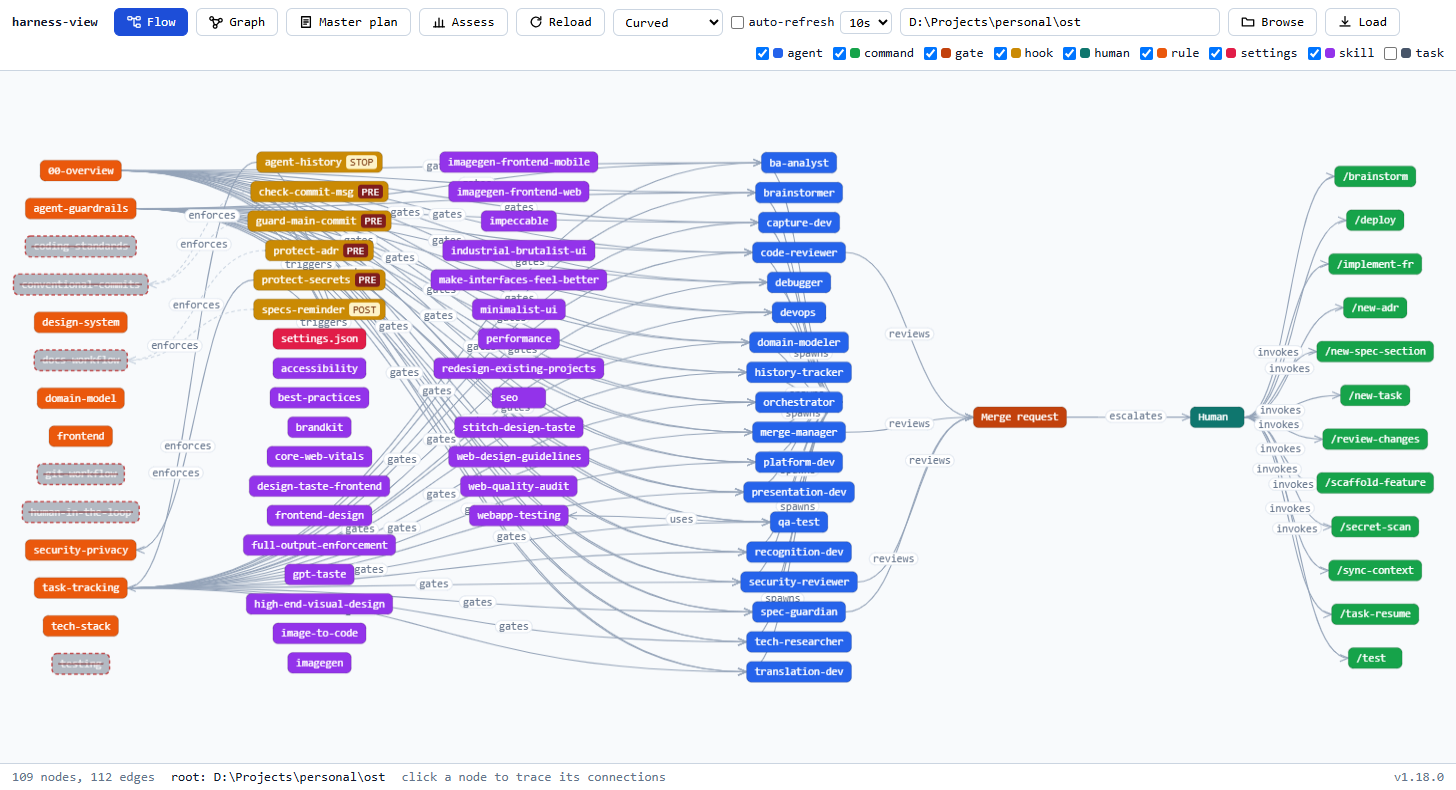
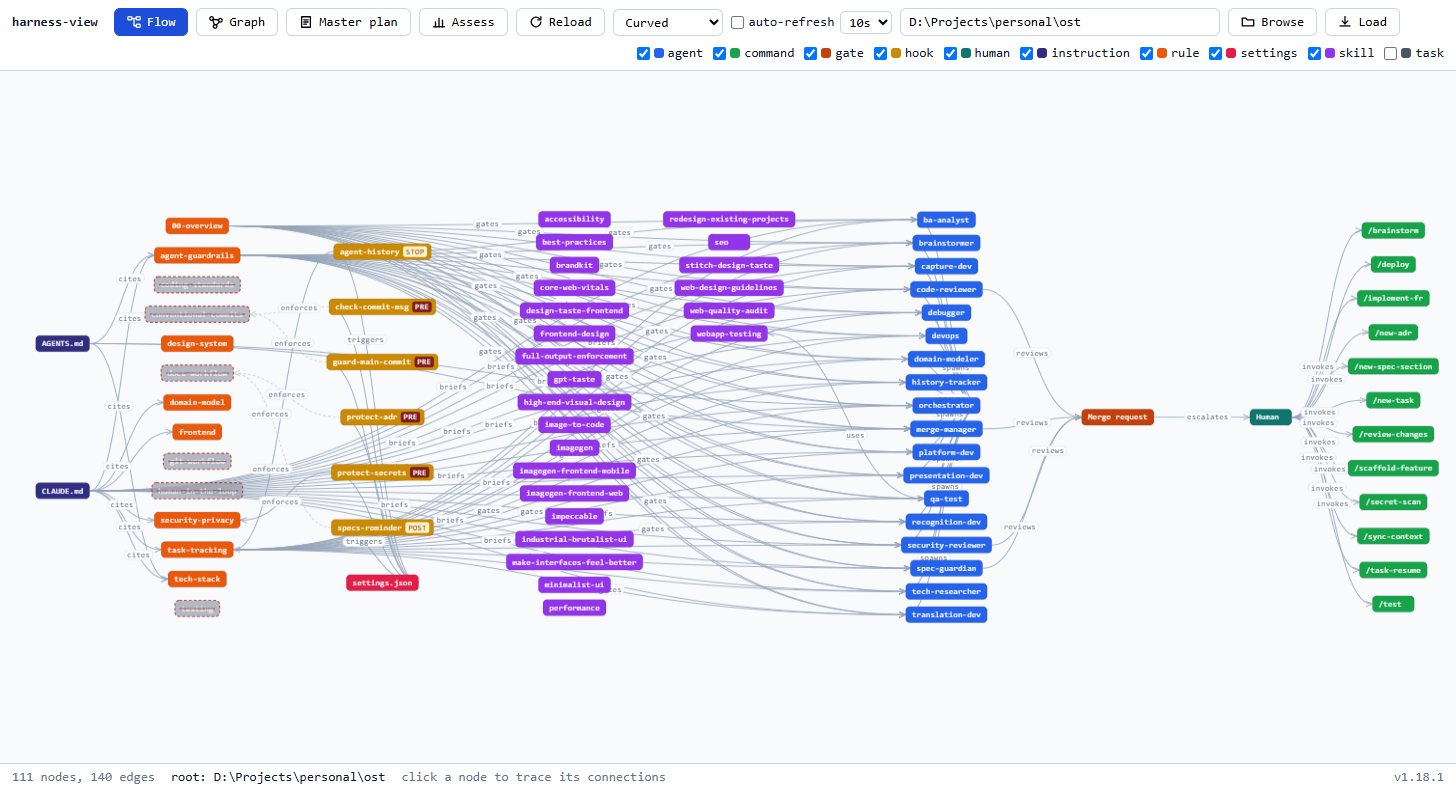
release: v1.18.1 (#31)
Version, four changelogs, regenerated plugin trees, and UI screenshots retaken from the 1.18.1 binary.

diff --git a/tools/harness-view/CHANGELOG.md b/tools/harness-view/CHANGELOG.md
@@ -7,6 +7,45 @@ This tool is versioned and released together with the two skills under one repo 
 [`docs/RELEASING.md`](../../docs/RELEASING.md). Its `Cargo.toml` version is gate-enforced against
 that number, so the binary can never report a version the release does not carry.
 
+## [1.18.1] - 2026-08-21
+
+### Added
+
+- **Instruction files are nodes.** `AGENTS.md`, `CLAUDE.md` and the per-tool equivalents appear in
+  the leftmost column - they are the contract every seat reads, so they sit before the rules - and
+  they are editable in place. New edges show which seats a contract briefs, which rules it cites,
+  and that `CLAUDE.md` imports `AGENTS.md`. Paths were researched rather than assumed, and the one
+  that could not be confirmed against a first-party source is **marked unverified** instead of
+  being claimed.
+- **The routing tiers are visible.** The Direct / Standard / Guarded table is parsed out of
+  whichever file states it and rendered as its own panel, and any seat the table names carries a
+  tier badge. Direct and Standard name nobody, so nobody is badged for them.
+- **A step's table is edited in a grid**, not by hand-aligning pipes. A real routing table is 17
+  rows; it used to arrive as a wall of `|` in a box four lines tall. Rows and columns can be added
+  and removed, and a one-cell edit produces a one-line diff, because each row is written back from
+  its original bytes unless its cells actually changed.
+- **`@` opens a picker over everything taggable** - seats, rules, skills, commands and repository
+  paths - with no word typed, and inserts the citation this repo actually uses for whatever is
+  chosen. The three older triggers each required knowing which *kind* of thing you were citing,
+  which is fine once you know the harness and useless before you do.
+
+### Changed
+
+- Skills have their own Flow column. Sharing the hooks column reads fine with two skills and falls
+  apart with twenty: a column of purple ran through the middle of six yellow hooks and the
+  enforcement layer - the part of the picture that says what can say no - could not be picked out.
+- Dialogs are 760px, 1040px for the roster editor, and **resizable**. Footer buttons carry one of
+  six colours so a destructive action is never one careless click from a confirm.
+- The edge animation runs at 0.22 px per frame instead of 0.7. At the old speed the eye tracked the
+  motion instead of the direction it was pointing.
+
+### Fixed
+
+- A CRLF file made the instruction editor report itself unsaved forever: a textarea normalises to
+  LF, so the buffer never equalled the stored original.
+- Two tests passed only on an older checkout. `.gitattributes` marks `*.md` as text, so a **fresh
+  Windows clone gets CRLF fixtures** and both compared them against LF literals.
+
 ## [1.18.0] - 2026-08-21
 
 ### Added

diff --git a/harness-bootstrap/CHANGELOG.md b/harness-bootstrap/CHANGELOG.md
@@ -6,6 +6,23 @@ Format: [Keep a Changelog](https://keepachangelog.com/en/1.1.0/). Versioning: [S
 This skill is released together with `spec-builder` under one repo version - see
 [`docs/RELEASING.md`](../docs/RELEASING.md).
 
+## [1.18.1] - 2026-08-21
+
+### Fixed
+
+- **Updating to a new skill version no longer invents conflicts.** `.gitattributes` checks this
+  repo's text out native, so a skill cloned on Windows holds CRLF while the same skill in WSL, in
+  CI, or unzipped from a release holds LF. Bootstrap from one and update from the other and every
+  text asset differed by one byte per line: a real 1.17.0 to 1.18.0 upgrade reported 14 conflicts,
+  **seven of them fake** - five `.gitkeep` files, `.claude/.gitignore` and `spawn-allowlist`,
+  identical in every character. A reconciliation queue nobody can read is a reconciliation queue
+  nobody works, and taking a new version is the one moment when reading it matters most. The
+  scaffolder now forgives line endings and nothing else: a file you edited still conflicts, and a
+  binary asset is still compared byte for byte.
+- spec-builder ships **8** optional spec sections, not 9. The README was right and `docs/FLOWS.md`,
+  the presentation outline and the deck in three languages were wrong. The number is now derived
+  from the manifest and checked on every surface that states it, in all three languages.
+
 ## [1.18.0] - 2026-08-21
 
 ### Changed

diff --git a/plugins/codex/spec-builder/skills/spec-builder/SKILL.md b/plugins/codex/spec-builder/skills/spec-builder/SKILL.md
@@ -1,6 +1,6 @@
 ---
 name: spec-builder
-version: 1.18.0
+version: 1.18.1
 description: Build the requirements contract for a project - a selective set of numbered BA spec sections under docs/specs/ with stable IDs (FR/NFR/BR/UC/US/DS/DT), acceptance criteria, and grep-verifiable traceability. The core (overview, glossary, FRs, NFRs, open issues, revision history, index) always; stakeholders, business flows, access control, data model, integrations, UI wireframes, feasibility, and a design-system appendix when selected. Do NOT use it to digest documents into a knowledge base, to build the .claude agent harness (that is harness-bootstrap), or to write code or ADRs. Works from any raw input - an idea, meeting notes, a transcript, a PRD, legacy docs, or a codebase - in the user's language. Use this WHENEVER the user wants requirements written, structured, or standardized - "build specs", "tạo specs", "viết tài liệu phân tích yêu cầu", "要件定義を作成して" - and their equivalents in any language. It never invents a requirement; anything unstated becomes a flagged open issue instead of a guess.
 allowed-tools: Bash(python:*), Bash(python3:*), Read, Write, Edit, Grep, Glob, AskUserQuestion, Agent
 ---

diff --git a/plugins/spec-builder/skills/spec-builder/SKILL.md b/plugins/spec-builder/skills/spec-builder/SKILL.md
@@ -1,6 +1,6 @@
 ---
 name: spec-builder
-version: 1.18.0
+version: 1.18.1
 description: Build the requirements contract for a project - a selective set of numbered BA spec sections under docs/specs/ with stable IDs (FR/NFR/BR/UC/US/DS/DT), acceptance criteria, and grep-verifiable traceability. The core (overview, glossary, FRs, NFRs, open issues, revision history, index) always; stakeholders, business flows, access control, data model, integrations, UI wireframes, feasibility, and a design-system appendix when selected. Do NOT use it to digest documents into a knowledge base, to build the .claude agent harness (that is harness-bootstrap), or to write code or ADRs. Works from any raw input - an idea, meeting notes, a transcript, a PRD, legacy docs, or a codebase - in the user's language. Use this WHENEVER the user wants requirements written, structured, or standardized - "build specs", "tạo specs", "viết tài liệu phân tích yêu cầu", "要件定義を作成して" - and their equivalents in any language. It never invents a requirement; anything unstated becomes a flagged open issue instead of a guess.
 allowed-tools: Bash(python:*), Bash(python3:*), Read, Write, Edit, Grep, Glob, AskUserQuestion, Agent
 ---

diff --git a/spec-builder/SKILL.md b/spec-builder/SKILL.md
@@ -1,6 +1,6 @@
 ---
 name: spec-builder
-version: 1.18.0
+version: 1.18.1
 description: Build the requirements contract for a project - a selective set of numbered BA spec sections under docs/specs/ with stable IDs (FR/NFR/BR/UC/US/DS/DT), acceptance criteria, and grep-verifiable traceability. The core (overview, glossary, FRs, NFRs, open issues, revision history, index) always; stakeholders, business flows, access control, data model, integrations, UI wireframes, feasibility, and a design-system appendix when selected. Do NOT use it to digest documents into a knowledge base, to build the .claude agent harness (that is harness-bootstrap), or to write code or ADRs. Works from any raw input - an idea, meeting notes, a transcript, a PRD, legacy docs, or a codebase - in the user's language. Use this WHENEVER the user wants requirements written, structured, or standardized - "build specs", "tạo specs", "viết tài liệu phân tích yêu cầu", "要件定義を作成して" - and their equivalents in any language. It never invents a requirement; anything unstated becomes a flagged open issue instead of a guess.
 allowed-tools: Bash(python:*), Bash(python3:*), Read, Write, Edit, Grep, Glob, AskUserQuestion, Agent
 ---

diff --git a/harness-bootstrap/SKILL.md b/harness-bootstrap/SKILL.md
@@ -1,6 +1,6 @@
 ---
 name: harness-bootstrap
-version: 1.18.0
+version: 1.18.1
 description: Bootstraps or standardizes the complete AI-agent harness for a repo - analyzes the existing source first, then generates the .claude folder (agents with explicit model/effort/tool budgets, path-scoped rules, commands, hooks, settings.json), the docs tree (specs/requirements/architecture/tasks/context), and AGENTS.md + CLAUDE.md, so the repo runs under orchestrator-driven task control. Also runs in a read-only audit mode that builds an audit control plane beside untouched source. Use when the user asks to "set up base", "thiet lap base coding", "chuan hoa claude folder", "chuan hoa source thanh claude ready", "khoi tao workspace cho AI agents", "set up agents for this repo", or adopts a project that should follow the standard structure.
 allowed-tools: Bash(python:*), Bash(python3:*), Bash(git:*), Read, Write, Edit, Grep, Glob, AskUserQuestion, Agent, WebSearch
 ---

diff --git a/plugins/codex/harness-bootstrap/skills/harness-bootstrap/SKILL.md b/plugins/codex/harness-bootstrap/skills/harness-bootstrap/SKILL.md
@@ -1,6 +1,6 @@
 ---
 name: harness-bootstrap
-version: 1.18.0
+version: 1.18.1
 description: Bootstraps or standardizes the complete AI-agent harness for a repo - analyzes the existing source first, then generates the .claude folder (agents with explicit model/effort/tool budgets, path-scoped rules, commands, hooks, settings.json), the docs tree (specs/requirements/architecture/tasks/context), and AGENTS.md + CLAUDE.md, so the repo runs under orchestrator-driven task control. Also runs in a read-only audit mode that builds an audit control plane beside untouched source. Use when the user asks to "set up base", "thiet lap base coding", "chuan hoa claude folder", "chuan hoa source thanh claude ready", "khoi tao workspace cho AI agents", "set up agents for this repo", or adopts a project that should follow the standard structure.
 allowed-tools: Bash(python:*), Bash(python3:*), Bash(git:*), Read, Write, Edit, Grep, Glob, AskUserQuestion, Agent, WebSearch
 ---

diff --git a/plugins/harness-bootstrap/skills/harness-bootstrap/SKILL.md b/plugins/harness-bootstrap/skills/harness-bootstrap/SKILL.md
@@ -1,6 +1,6 @@
 ---
 name: harness-bootstrap
-version: 1.18.0
+version: 1.18.1
 description: Bootstraps or standardizes the complete AI-agent harness for a repo - analyzes the existing source first, then generates the .claude folder (agents with explicit model/effort/tool budgets, path-scoped rules, commands, hooks, settings.json), the docs tree (specs/requirements/architecture/tasks/context), and AGENTS.md + CLAUDE.md, so the repo runs under orchestrator-driven task control. Also runs in a read-only audit mode that builds an audit control plane beside untouched source. Use when the user asks to "set up base", "thiet lap base coding", "chuan hoa claude folder", "chuan hoa source thanh claude ready", "khoi tao workspace cho AI agents", "set up agents for this repo", or adopts a project that should follow the standard structure.
 allowed-tools: Bash(python:*), Bash(python3:*), Bash(git:*), Read, Write, Edit, Grep, Glob, AskUserQuestion, Agent, WebSearch
 ---

diff --git a/CHANGELOG.md b/CHANGELOG.md
@@ -12,6 +12,15 @@ agent or through the orchestrator, and the review gate runs once on the branch i
 every agent. harness-view gains a roster editor, an editable Command Steps panel, and custom
 dialogs. See each skill's own CHANGELOG for detail.
 
+## v1.18.1
+
+harness-view gains instruction-file nodes, a visible tier model, a grid editor for tables in a
+command's steps, and `@` mentions. The landing page is rebuilt as an introduction that follows the
+README's argument, with the clips folded in and re-rendered from the page's own palette. The deck
+drops from 30 slides to 25 and teaches the current routing model. Two published figures that
+nothing was deriving are now derived, and updating a harness to a new skill version stops reporting
+line endings as conflicts.
+
 ## Unreleased
 
 Documentation and instruction tuning from a user's-seat audit, and a rebuilt landing page.

diff --git a/README.ja.md b/README.ja.md
@@ -132,7 +132,7 @@ ID を持ちます。
   <img src="docs/assets/harness-view-assess.png" alt="harness-view の Assess タブ: 実際のハーネスを 100 点満点中 79 点と採点し、ボード健全性・コスト管理・ドキュメント品質・安全性・トレーサビリティのカテゴリ別バーと、問題を名指しする検出結果一覧を表示" width="900">
 </p>
 
-いずれもモックではなく実在のハーネスです。ノード 109、エッジ 112、決定的な assess エンジンに
+いずれもモックではなく実在のハーネスです。ノード 111、エッジ 140、決定的な assess エンジンに
 よる採点は 79/100。この採点にモデルは一切関与しないため、ブラウザと CI が食い違うことは
 ありません。
 

diff --git a/tools/harness-view/README.md b/tools/harness-view/README.md
@@ -145,14 +145,14 @@ What each one actually prints, against a real harness:
 
 ```
 $ harness-view scan D:/Projects/msboost
-harness-view: 109 nodes, 112 edges -> D:\Projects\ost\.claude\state\harness-graph.json
+harness-view: 111 nodes, 140 edges -> D:\Projects\ost\.claude\state\harness-graph.json
 
 $ harness-view serve D:/Projects/msboost --port 7420
 harness-view: serving D:\Projects\msboost on http://127.0.0.1:7420/
 
 $ harness-view watch D:/Projects/msboost
 harness-view: watching D:\Projects\msboost (Ctrl+C to stop)
-harness-view: rebuilt (109 nodes, 112 edges)
+harness-view: rebuilt (111 nodes, 140 edges)
 ```
 
 `scan` writes a file and exits, which is the form to use in a script or a hook.

diff --git a/README.md b/README.md
@@ -134,7 +134,7 @@ The harness is not a diagram you take on trust. `harness-view` renders the real 
   <img src="docs/assets/harness-view-assess.png" alt="harness-view Assess tab scoring a real harness 79 out of 100, with per-category bars for board health, cost control, docs quality, safety and traceability, and a findings list naming each problem" width="900">
 </p>
 
-Both are a real harness, not a mock-up: 109 nodes, 112 edges, scored 79/100 by the deterministic
+Both are a real harness, not a mock-up: 111 nodes, 140 edges, scored 79/100 by the deterministic
 assess engine. No model is involved in that score, so a browser and a CI run cannot disagree
 about it.
 
